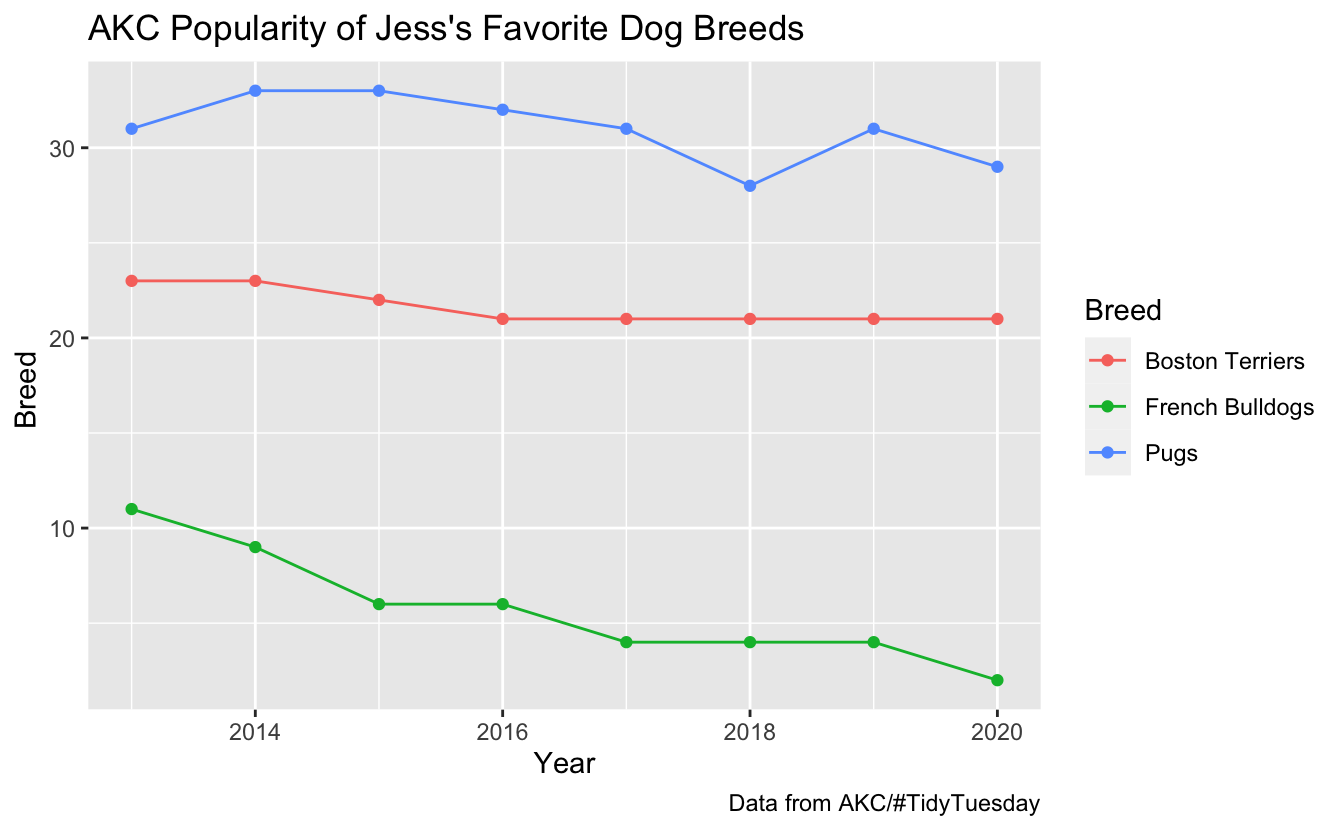
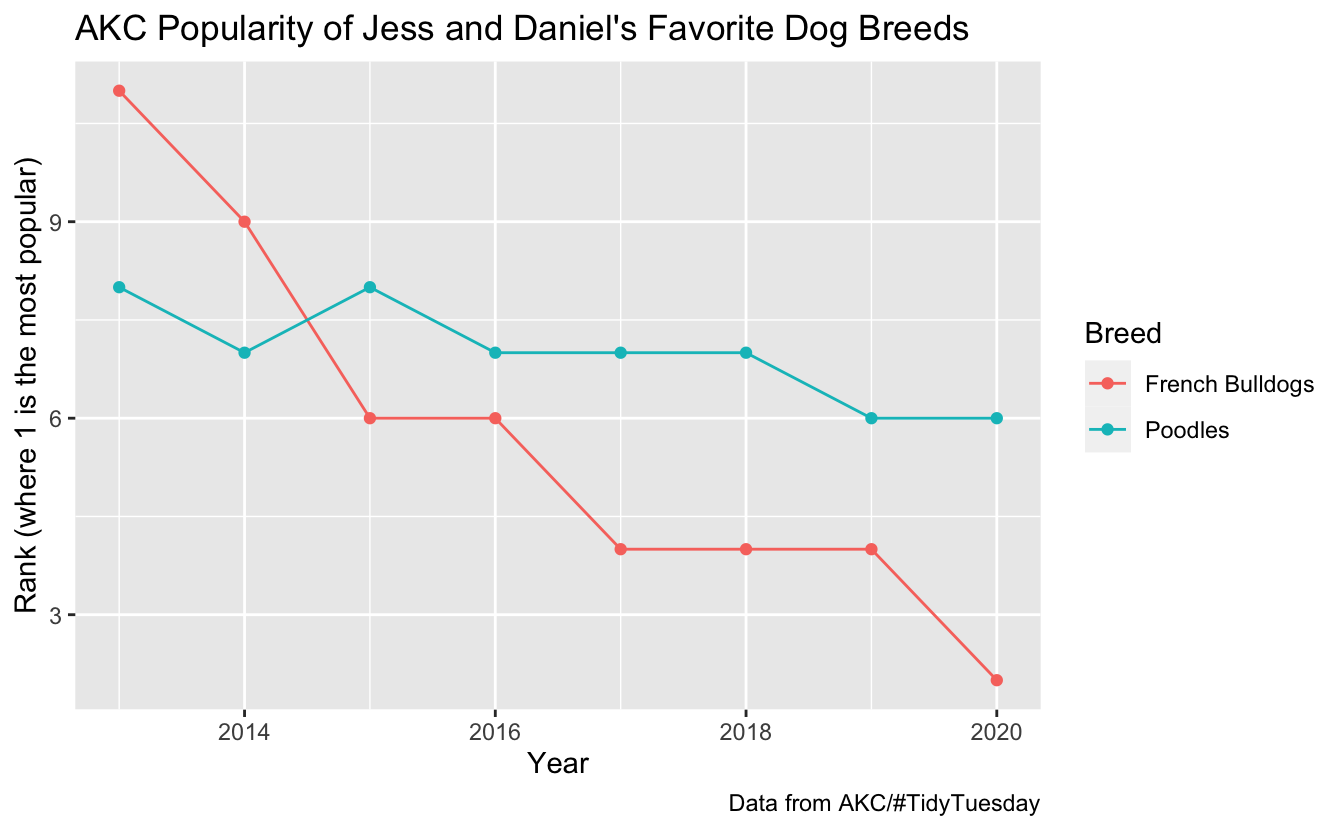
Fixing more typos, and adding an Rscript with material

diff --git a/content/codeclub/S05E03/index.md b/content/codeclub/S05E03/index.md
@@ -13,7 +13,7 @@ image:
   caption: "Illustrations from the Openscapes blog Tidy Data for reproducibility, efficiency, and collaboration by Julia Lowndes and Allison Horst"
   focal_point: ""
   preview_only: false
-rmd_hash: a5ef1b9bbd19d09f
+rmd_hash: dacaaa835de64465
 
 ---
 
@@ -28,6 +28,22 @@ Then we will cover the primary tool use for tidying data, **pivoting**. Pivoting
 -   refresh on tidy data
 -   refresh on [`pivot_longer()`](https://tidyr.tidyverse.org/reference/pivot_longer.html)
 -   learn [`pivot_wider()`](https://tidyr.tidyverse.org/reference/pivot_wider.html)
+
+If you want to download the R script that goes along with today's code club you can do so with the following code:
+
+<div class="highlight">
+
+<pre class='chroma'><code class='language-r' data-lang='r'><span><span class='c'># save the url location for today's script</span></span>
+<span><span class='nv'>todays_R_script</span> <span class='o'>&lt;-</span> <span class='s'>'https://github.com/biodash/biodash.github.io/raw/master/content/codeclub/S05E03/r4ds_tidying2.R'</span></span>
+<span></span>
+<span><span class='c'># go get that file! </span></span>
+<span><span class='nf'><a href='https://rdrr.io/r/utils/download.file.html'>download.file</a></span><span class='o'>(</span>url <span class='o'>=</span> <span class='nv'>todays_R_script</span>,</span>
+<span>              destfile <span class='o'>=</span> <span class='s'>"r4ds_tidying2.R"</span><span class='o'>)</span></span>
+<span></span></code></pre>
+
+</div>
+
+The file will be downloaded to your working directory. If you don't know where that is, you can find out by executing [`getwd()`](https://rdrr.io/r/base/getwd.html) in your console.
 
 We will again be using tools embedded within the `tidyverse` package, so we need to load it before we can use it. We do that with the [`library()`](https://rdrr.io/r/base/library.html) function.
 
@@ -244,10 +260,6 @@ Now we can make the plot we want. If you're not familiar with ggplot syntax you 
 </div>
 
 <br>
-
-<div class="puzzle">
-
-<div>
 
 Often it may be easier to collect your data in wide format, but analyze it in tidy (i.e., long) format.
 
@@ -581,17 +593,17 @@ Use your tidy dataframe, [`filter()`](https://dplyr.tidyverse.org/reference/filt
 
 <div class="highlight">
 
-<pre class='chroma'><code class='language-r' data-lang='r'><span><span class='nv'>jess_fav_breeds</span> <span class='o'>&lt;-</span> <span class='nf'><a href='https://rdrr.io/r/base/c.html'>c</a></span><span class='o'>(</span><span class='s'>"French Bulldogs"</span>, <span class='s'>"Boston Terriers"</span>, <span class='s'>"Pugs"</span><span class='o'>)</span></span>
+<pre class='chroma'><code class='language-r' data-lang='r'><span><span class='nv'>fav_breeds</span> <span class='o'>&lt;-</span> <span class='nf'><a href='https://rdrr.io/r/base/c.html'>c</a></span><span class='o'>(</span><span class='s'>"French Bulldogs"</span>, <span class='s'>"Poodles"</span><span class='o'>)</span></span>
 <span></span>
 <span><span class='nv'>breed_rank_tidy</span> <span class='o'>|&gt;</span></span>
-<span>  <span class='nf'><a href='https://dplyr.tidyverse.org/reference/filter.html'>filter</a></span><span class='o'>(</span><span class='nv'>Breed</span> <span class='o'><a href='https://rdrr.io/r/base/match.html'>%in%</a></span> <span class='nv'>jess_fav_breeds</span><span class='o'>)</span> <span class='o'>|&gt;</span></span>
-<span><span class='c'># filter(Breed == c("French Bulldogs", "Boston Terriers", "Pugs")) |&gt; # also works</span></span>
+<span>  <span class='nf'><a href='https://dplyr.tidyverse.org/reference/filter.html'>filter</a></span><span class='o'>(</span><span class='nv'>Breed</span> <span class='o'><a href='https://rdrr.io/r/base/match.html'>%in%</a></span> <span class='nv'>fav_breeds</span><span class='o'>)</span> <span class='o'>|&gt;</span></span>
+<span><span class='c'># filter(Breed == c("French Bulldogs", "Poodles")) |&gt; # also works</span></span>
 <span>  <span class='nf'><a href='https://ggplot2.tidyverse.org/reference/ggplot.html'>ggplot</a></span><span class='o'>(</span><span class='nf'><a href='https://ggplot2.tidyverse.org/reference/aes.html'>aes</a></span><span class='o'>(</span>x <span class='o'>=</span> <span class='nv'>year</span>, y <span class='o'>=</span> <span class='nv'>rank</span>, color <span class='o'>=</span> <span class='nv'>Breed</span><span class='o'>)</span><span class='o'>)</span> <span class='o'>+</span></span>
 <span>  <span class='nf'><a href='https://ggplot2.tidyverse.org/reference/geom_point.html'>geom_point</a></span><span class='o'>(</span><span class='o'>)</span> <span class='o'>+</span> </span>
 <span>  <span class='nf'><a href='https://ggplot2.tidyverse.org/reference/geom_path.html'>geom_line</a></span><span class='o'>(</span><span class='o'>)</span> <span class='o'>+</span></span>
 <span>  <span class='nf'><a href='https://ggplot2.tidyverse.org/reference/labs.html'>labs</a></span><span class='o'>(</span>x <span class='o'>=</span> <span class='s'>"Year"</span>, </span>
-<span>       y <span class='o'>=</span> <span class='s'>"Breed "</span>,</span>
-<span>       title <span class='o'>=</span> <span class='s'>"AKC Popularity of Jess's Favorite Dog Breeds"</span>,</span>
+<span>       y <span class='o'>=</span> <span class='s'>"Rank (where 1 is the most popular)"</span>,</span>
+<span>       title <span class='o'>=</span> <span class='s'>"AKC Popularity of Jess and Daniel's Favorite Dog Breeds"</span>,</span>
 <span>       caption <span class='o'>=</span> <span class='s'>"Data from AKC/#TidyTuesday"</span><span class='o'>)</span></span>
 </code></pre>
 <img src="figs/bonus-solution-1-1.png" width="700px" style="display: block; margin: auto;" />
@@ -599,14 +611,10 @@ Use your tidy dataframe, [`filter()`](https://dplyr.tidyverse.org/reference/filt
 </div>
 
 </details>
-
 </div>
-
 </div>
 
 <br>
-
-------------------------------------------------------------------------
 
 ------------------------------------------------------------------------
 
